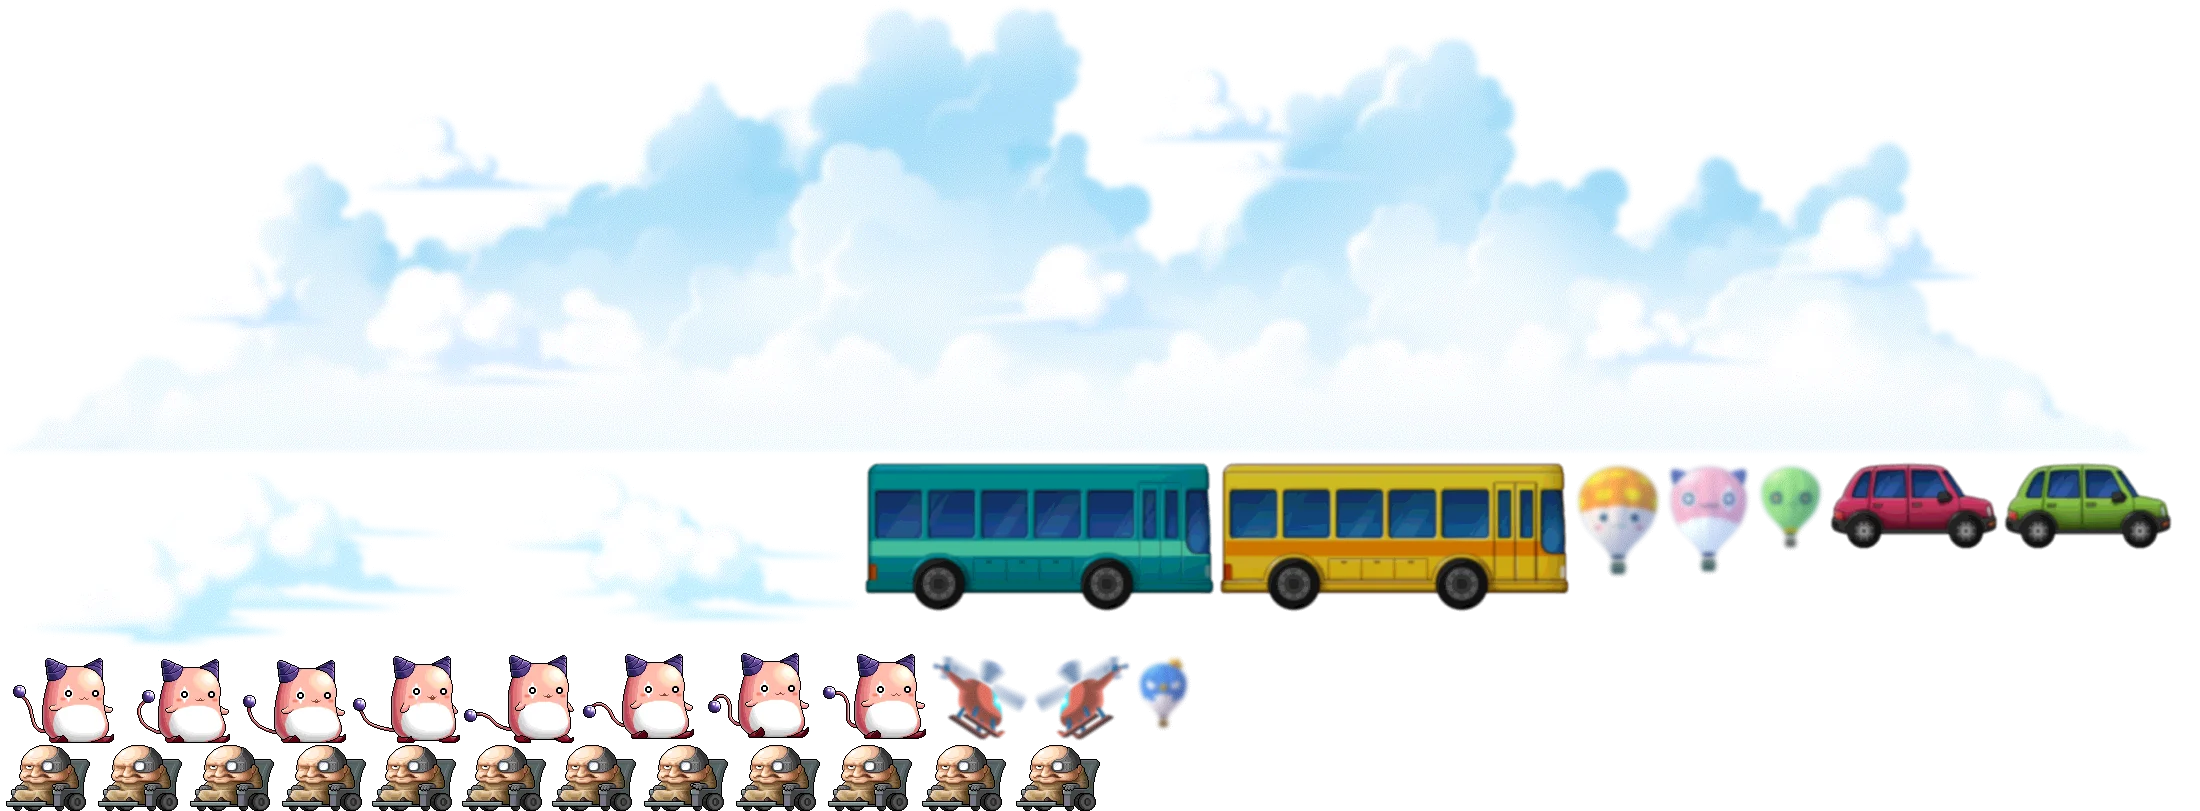
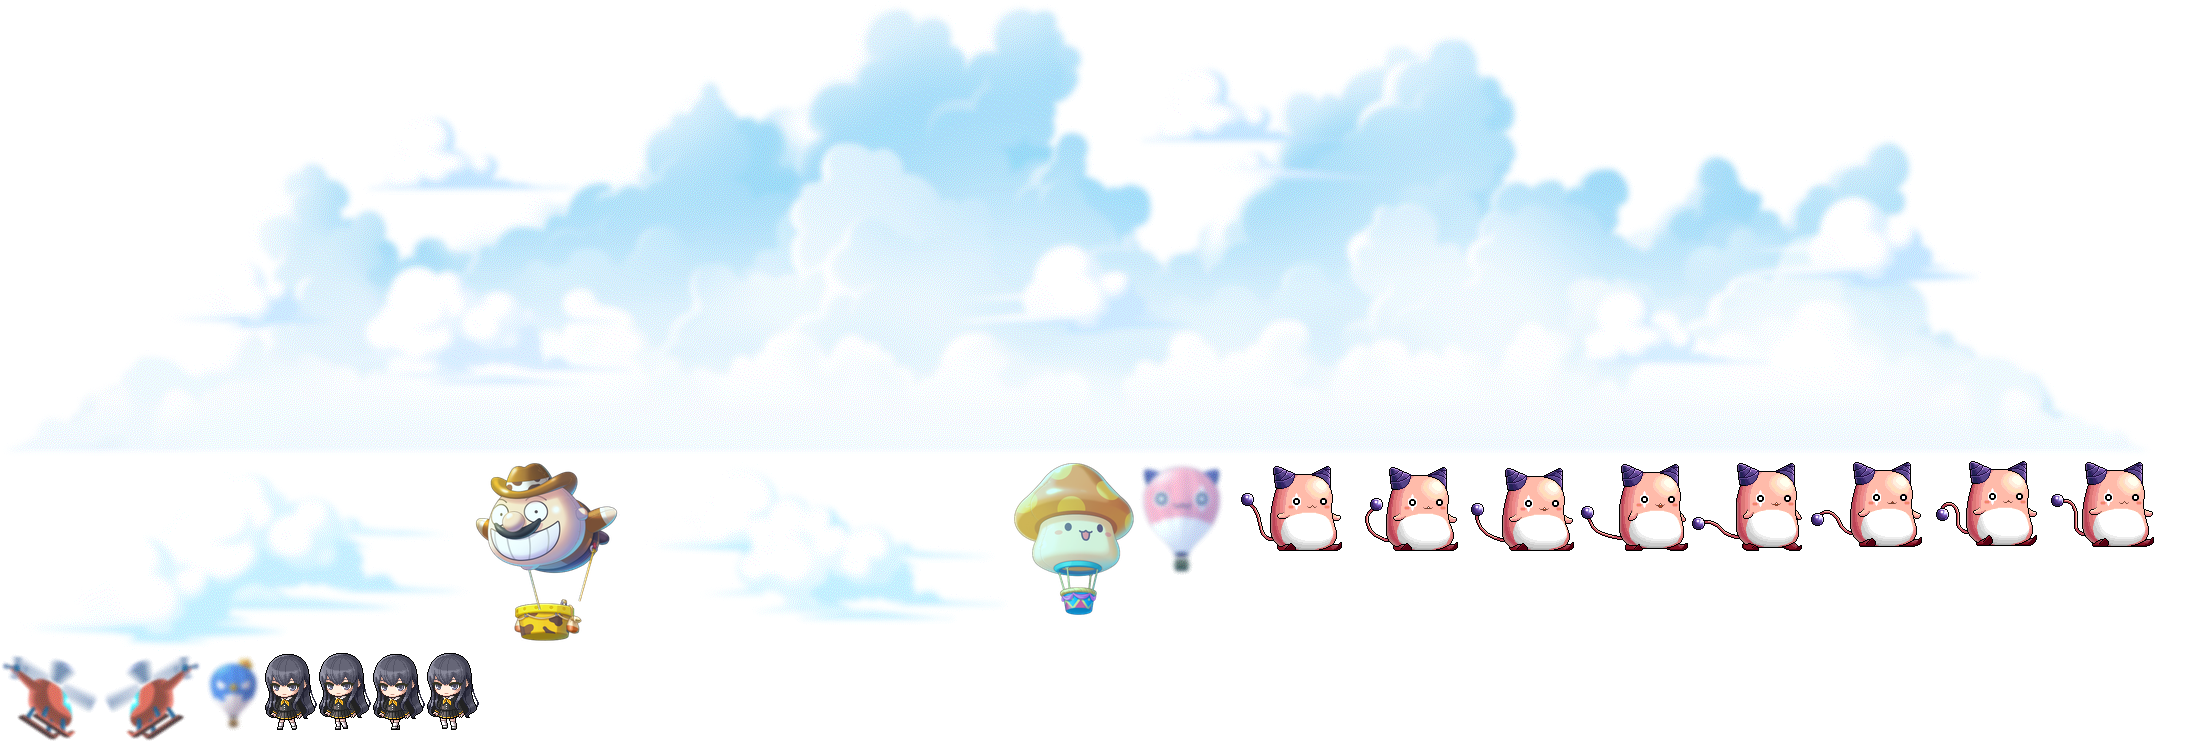
거리: 건물이 빛을 내는 밤, 이벤트 열기구, 걷는 페리 — 버스·차·스쿠터 제거
- 밤: 창을 칠하지 않고 밝기만 올린다. 창 · 간판 · 가로등의 빛무리와 그 빛이 퍼져 거리를 채운다, 하늘의 경계선 제거
- 열기구: 15번가의 주황버섯 · 슬라임 제거, 23주년 배경의 주황버섯(0.75배속) · 슈피겔만(1.25배속, 오른쪽 → 왼쪽) 추가
- 길: 버스 · 차 · 스쿠터 NPC 제거, 커닝 타워의 페리가 오른쪽 → 왼쪽으로 걷는다. 걷는 이들은 가끔 멈춰 선다
- 작은 그림이 뭉개지지 않게: 아틀라스 무손실, 움직임을 화면 픽셀 단위로, 캐릭터 · 열기구는 밤에도 고른 색

diff --git a/src/components/shop/scene/sceneGl.ts b/src/components/shop/scene/sceneGl.ts
@@ -1,14 +1,15 @@
 // 배경 장면을 그리는 WebGL 실행기. 그림은 게임 맵에서 뽑은 것(메이플 15번가)이고, 여기서는 층을 겹쳐 놓고
 // 시각에 따른 색과 작은 움직임만 입힌다. 화면 조작(INP)에 끼어들지 않는 것이 첫째 조건이다.
 //  · 앱 배경(sky) = 15번가 거리: 하늘(셰이더) → 구름 · 열기구 → 먼 빌딩 숲 → 거리의 건물(탑을 끌어안은 예티 풍선 포함) → 밤 불빛의 번짐
-//    → 가게 앞을 지나는 버스와 차 → 길을 걷는 핑크빈(왼쪽 → 오른쪽)과 스쿠터를 탄 NPC(오른쪽 → 왼쪽, 더 빠르게) → 헬리콥터.
+//    → 길을 걷는 핑크빈(왼쪽 → 오른쪽)과 커닝 타워의 페리(오른쪽 → 왼쪽, 가끔 멈춰 선다) → 헬리콥터.
 //    그림 1칸 = 화면 1px 로 놓고(배율을 바꾸지 않는다) 아래 가운데를 화면 아래 가운데에 맞춘다.
+//    움직임은 화면 픽셀 단위로 끊어 옮긴다 — 반 칸씩 걸쳐 그리면 작은 그림(캐릭터 · 열기구)이 뭉개져 보인다.
 //  · 무대(room) = 15번가 패션 매장 안: 창밖 거리 → 매장. 가운데 깔개가 캐릭터 발밑에 오고, 그림 1칸 = 캐릭터 도트 1칸이다 —
 //    미리보기 배율을 올리면 방도 함께 커진다(정수 배율이라 칸을 그대로 키운다).
 //  · 움직임: 구름 · 열기구 · 차가 따로 흘러가고(정점 셰이더에서 계산), 화면 전체가 아주 천천히 좌우로 흔들린다(층마다 폭이 다르다).
 //  · 시각(skyTime): 하늘 · 해 · 달 · 별 · 별똥별 · 핑크빈 별자리, 그림에 곱하는 빛. 밤에는 하늘이 아니라 거리가 밝다 —
-//    창에 노란 불이 켜지고 가로등 둘레와 길바닥이 노랗게 밝아진다(어느 창이 켜지고 어디가 밝은지는 미리 뽑아 둔 지도 street-glow 가 정한다).
-//    네온처럼 밝고 진한 색도 제 빛을 지킨다.
+//    그림을 덧칠하지 않고 밝기만 올린다: 길에서 가게 높이까지 은은하게, 가로등 둘레는 더, 창유리 자리는 조금 더 밝고 따뜻하게
+//    (어디가 밝은지는 미리 뽑아 둔 지도 street-glow 가 정한다). 네온처럼 밝고 진한 색도 제 빛을 지킨다.
 //  · 그림은 화면이 한가할 때 받아 한 프레임에 한 장씩 올린다(디코딩은 createImageBitmap 으로 메인 스레드 밖에서).
 //  · 초당 30번 그린다. '동작 줄이기'면 바뀔 때와 20초마다만 그린다. 탭이 가려지면 rAF 가 멈춘다.
 //  · 캔버스와 컨텍스트는 종류마다 하나를 끝까지 재사용한다. 밝아지며 다가가는 연출은 처음 뜰 때 한 번뿐 —
@@ -32,32 +33,40 @@ const MAX_RATIO = 2      // 앱 배경 캔버스 해상도 상한(화면 배율)
 const SWAY = 12          // 화면이 좌우로 흔들리는 폭(그림 픽셀)
 const MASK = 0.2         // 앱 배경을 화면 내용과 가르는 어두운 막
 
-// 정점: 자리(2) · 텍스처 좌표(2) · [종류, 위상(걷는 이는 그림 한 장의 텍스처 폭), 처음 x, 걷는 그림 장수](4)
-// 종류 0 구름 · 1 열기구 · 2 헬리콥터 · 3 버스와 차 · 4 먼 빌딩 · 5 거리 · 6 무대의 창밖 · 7 무대 · 8 밤 불빛의 번짐 · 9 오른쪽으로 걷는 이 · 10 왼쪽으로 가는 이
+// 정점: 자리(2) · 텍스처 좌표(2) · [종류, 위상(걷는 이는 그림 한 장의 텍스처 폭), 처음 x, 빠르기 배수(걷는 이는 그림 장수)](4)
+// 종류 0 구름 · 1 열기구 · 2 헬리콥터 · 4 먼 빌딩 · 5 거리 · 6 무대의 창밖 · 7 무대 · 8 밤 불빛의 번짐 · 9 오른쪽으로 걷는 이 · 10 왼쪽으로 걷는 이
 const QUAD_VS = `
 attribute vec2 aPos; attribute vec2 aUv; attribute vec4 aAni;
 uniform vec4 uView; uniform vec2 uRes; uniform float uTime; uniform float uSway;
 varying vec2 vUv; varying float vKind; varying vec2 vPos;
 void main(){
   float k = aAni.x, ph = aAni.y;
-  vec2 p = aPos, uv = aUv;
-  if (k < 3.5) {
-    float sp = k < .5 ? 3. + ph * 2. : k < 1.5 ? 1.5 + ph * 2.5 : k < 2.5 ? 7. + ph * 6. : 22. + ph * 16.;
-    float pad = k < .5 ? 2155. : 400., per = k < .5 ? 6465. : k < 2.5 ? ${STREET.w + 500}. : ${(STREET.w + 500) * 2}.;   // 차는 드문드문
-    p.x += mod(aAni.z + sp * uTime + pad, per) - pad - aAni.z;
-    p.y += k < .5 ? 0. : k < 1.5 ? sin(uTime * .55 + ph * 6.283) * 5. : k < 2.5 ? sin(uTime * 1.3 + ph * 6.283) * 2.5 : 0.;
+  vec2 mv = vec2(0.), uv = aUv;     // mv = 제자리에서 옮긴 만큼(그림 픽셀)
+  if (k < 2.5) {
+    // 핑크빈 열기구가 기준(5칸/초). 다른 열기구는 그 배수(aAni.w)로 흘러간다
+    float sp = k < .5 ? 3. + ph * 2. : k < 1.5 ? 5. * aAni.w : 7. + ph * 6.;
+    float pad = k < .5 ? 2155. : 400., per = k < .5 ? 6465. : ${STREET.w + 500}.;
+    mv.x = mod(aAni.z + sp * uTime + pad, per) - pad - aAni.z;
+    mv.y = k < .5 ? 0. : k < 1.5 ? sin(uTime * .55 + ph * 6.283) * 5. : sin(uTime * 1.3 + ph * 6.283) * 2.5;
   } else if (k > 8.5) {
-    // 길을 지나가는 이들: 한쪽 끝에서 나타나 반대쪽 끝으로 사라지고, 한참 뒤에 다시 나타난다(둘의 주기와 처음 자리가 달라 따로 나타난다)
+    // 길을 걷는 이들: 한쪽 끝에서 나타나 반대쪽 끝으로 사라지고, 쉬었다가 다시 나타난다(둘의 빠르기 · 주기 · 처음 자리가 다르다).
+    // 건널 때마다 열에 여섯 번쯤은 도중에 한 번 멈춰 선다(자리와 여부는 건널 때마다 다르다).
     bool right = k < 9.5;
-    float per = right ? ${STREET.w + 700}. : ${Math.round((STREET.w + 700) * 1.35)}.;
-    float m = mod((right ? 24. : 46.) * uTime + (right ? 1250. : per - 700.), per);
-    p.x += (right ? m - 350. : ${STREET.w + 350}. - m) - aAni.z;
-    uv.x += floor(mod(uTime * 8., aAni.w)) * ph;
+    float sp = right ? 24. : 34.;
+    float travel = ${STREET.w + 700}. / sp, per = travel + (right ? 50. : 85.);
+    float tt = uTime + (right ? travel * .28 : 17.);
+    float j = floor(tt / per), tau = tt - j * per;
+    float h1 = fract(sin(j * 12.9898 + k) * 43758.5453), h2 = fract(sin(j * 78.233 + k * 3.7) * 24634.6345);
+    float stop = step(h1, .6) * 4.5, tp = (.3 + .4 * h2) * travel;
+    float walked = tau < tp ? tau : (tau < tp + stop ? tp : tau - stop);
+    bool paused = tau >= tp && tau < tp + stop;
+    mv.x = (right ? walked * sp - 350. : ${STREET.w + 350}. - walked * sp) - aAni.z;
+    uv.x += (paused ? 0. : floor(mod(uTime * (right ? 8.33 : 5.), aAni.w))) * ph;
   }
-  float par = k < .5 ? .15 : k < 1.5 ? .3 : k < 2.5 ? .6 : k < 3.5 ? 1. : k < 4.5 ? .5 : k < 5.5 ? 1. : k < 6.5 ? .25 : k < 7.5 ? 0. : 1.;
-  p.x += uSway * par;
-  vPos = p;
-  vec2 c = p * uView.xy + uView.zw;          // 캔버스 픽셀(왼쪽 위 원점)
+  float par = k < .5 ? .15 : k < 1.5 ? .3 : k < 2.5 ? .6 : k < 4.5 ? .5 : k < 5.5 ? 1. : k < 6.5 ? .25 : k < 7.5 ? 0. : 1.;
+  mv.x += uSway * par;
+  vPos = aPos + mv;
+  vec2 c = aPos * uView.xy + uView.zw + floor(mv * uView.xy + .5);   // 캔버스 픽셀(왼쪽 위 원점). 옮긴 만큼은 픽셀 단위로 끊는다
   gl_Position = vec4(c.x / uRes.x * 2. - 1., 1. - c.y / uRes.y * 2., 0., 1.);
   vUv = uv; vKind = k;
 }`
@@ -69,8 +78,8 @@ varying vec2 vUv; varying float vKind; varying vec2 vPos;
 void main(){
   vec4 t = texture2D(uTex, vUv);
   if (vKind > 7.5 && vKind < 8.5) {
-    // 밤 불빛의 번짐: 가로등과 창 둘레의 공기가 노랗게 밝다(더하기)
-    gl_FragColor = vec4(vec3(1., .72, .34) * t.g * uLamp * .2 * (1. - uMask), 0.);
+    // 밤 불빛의 번짐: 창 · 간판 · 가로등 둘레에 빛무리가 지고(b), 그 빛이 닿는 공기도 조금 밝다(g). 더하기. 위로 갈수록 스러진다(지도에서)
+    gl_FragColor = vec4(vec3(1., .74, .38) * (t.b * .34 + t.g * .07) * uLamp * (1. - uMask), 0.);
     return;
   }
   if (t.a < .004) discard;
@@ -86,16 +95,21 @@ void main(){
     lit *= 1. - .34 * smoothstep(1., .25, length(d));
   } else {
     lit = c * uAmb;
-    // 밤: 밝고 진한 색(네온 · 간판)은 제 빛을 지킨다
-    lit = mix(lit, c * 1.05 + .03, smoothstep(.6, .9, mx) * smoothstep(.2, .5, mx - mn) * uLamp);
-    if (vKind > 4.5 && vKind < 5.5) {
-      // 거리: 가로등과 창의 빛(g)을 받은 면은 제 색이 살아나고 노랗게 물든다. 불 켜진 창(r)은 통째로 노랗다
-      vec2 gw = texture2D(uGlow, vUv).rg * uLamp;
-      lit *= 1. + gw.y * 1.3;
-      lit += vec3(1., .72, .34) * gw.y * .16;
-      lit = mix(lit, vec3(1., .88, .56) * (.6 + .5 * lum), gw.x);
-    } else if (vKind > 3.5 && vKind < 4.5) lit = mix(lit, uHaze, .3);
-    else if ((vKind > 2.5 && vKind < 3.5) || vKind > 8.5) lit *= 1. + .75 * uLamp;   // 차와 행인은 가로등 아래에 있다
+    if (vKind > 3.5 && vKind < 5.5) {
+      // 건물 — 밤: 밝고 진한 색(네온 · 간판)은 제 빛을 지킨다
+      lit = mix(lit, c * 1.05 + .03, smoothstep(.6, .9, mx) * smoothstep(.2, .5, mx - mn) * uLamp);
+      if (vKind > 4.5) {
+        // 거리: 건물의 창 · 간판 · 가로등에서 나온 빛(g)을 받은 면은 제 색이 살아나고 살짝 노랗게 물든다.
+        // 창유리 자리(r)는 스스로 빛난다 — 안이 보이는 채로 더 밝고 따뜻하다
+        vec2 gw = texture2D(uGlow, vUv).rg * uLamp;
+        lit *= 1. + gw.y * 1.45;
+        lit += vec3(1., .72, .34) * gw.y * .1;
+        lit = mix(lit, mix(c, vec3(1., .9, .62) * (lum * 1.2 + .1), .45) * 1.12, gw.x * .9);
+      } else lit = mix(lit, uHaze, .3);
+    }
+    // 캐릭터와 열기구는 색을 고르게 다룬다(부분만 밝히면 얼룩져 보인다). 걷는 이들은 가로등 아래라 밤에도 거의 제 색이다
+    else if (vKind > 8.5) lit = c * mix(uAmb, vec3(1., .96, .9), .88 * uLamp);
+    else if (vKind < 1.5) lit = c * mix(uAmb, vec3(1.), .5 * uLamp);
   }
   gl_FragColor = vec4(mix(lit, vec3(.09, .07, .16), uMask) * t.a, t.a);
 }`
@@ -203,14 +217,15 @@ function program(gl: WebGLRenderingContext, vs: string, fs: string, names: strin
 const STRIDE = 8
 function mesh(kind: SceneKind) {
   const out: number[] = [], ranges: number[][] = []
-  const quad = (k: number, ph: number, x: number, y: number, w: number, h: number, u0: number, v0: number, u1: number, v1: number, frames = 0) => {
+  const quad = (k: number, ph: number, x: number, y: number, w: number, h: number, u0: number, v0: number, u1: number, v1: number, extra = 0) => {
     const r = (ranges[k] ??= [out.length / STRIDE, 0])
     r[1] += 6
-    for (const [cx, cy] of [[0, 0], [1, 0], [0, 1], [1, 0], [1, 1], [0, 1]]) out.push(x + cx * w, y + cy * h, cx ? u1 : u0, cy ? v1 : v0, k, ph, x, frames)
+    for (const [cx, cy] of [[0, 0], [1, 0], [0, 1], [1, 0], [1, 1], [0, 1]]) out.push(x + cx * w, y + cy * h, cx ? u1 : u0, cy ? v1 : v0, k, ph, x, extra)
   }
   if (kind === 'sky') {
     const [aw, ah] = STREET.atlas
-    STREET.sprites.forEach(([k, ax, ay, w, h, x, y, frames, pitch], i) => quad(k, frames ? pitch / aw : (i * 0.618034) % 1, x, y, w, h, ax / aw, ay / ah, (ax + w) / aw, (ay + h) / ah, frames))
+    // extra = 빠르기 배수(열기구) 또는 걷는 그림 장수. 걷는 이는 위상 자리에 그림 한 장의 텍스처 폭을 싣는다
+    STREET.sprites.forEach(([k, ax, ay, w, h, x, y, extra, pitch], i) => quad(k, pitch ? pitch / aw : (i * 0.618034) % 1, x, y, w, h, ax / aw, ay / ah, (ax + w) / aw, (ay + h) / ah, extra))
     quad(4, 0, 0, STREET.far.y, STREET.w, STREET.far.h, 0, 0, 1, 1)
     quad(5, 0, 0, STREET.main.y, STREET.w, STREET.main.h, 0, 0, 1, 1)
     quad(8, 0, 0, STREET.main.y, STREET.w, STREET.main.h, 0, 0, 1, 1)
@@ -355,6 +370,7 @@ function draw(sc: Scene, now: number, st: SkyState, still: boolean) {
   let k: number, ox: number, oy: number
   if (room) { k = sc.px * zoom; ox = sc.foot[0] - ROOM.foot[0] * k; oy = sc.foot[1] - ROOM.foot[1] * k }
   else { k = sc.ratio * Math.max(1, W / sc.ratio / (STREET.w - 4 * SWAY)) * zoom; ox = W / 2 - (STREET.w / 2) * k; oy = H - STREET.h * k }
+  if (zoom === 1) { ox = Math.round(ox); oy = Math.round(oy) } // 칸이 화면 픽셀에 딱 맞게
   gl.uniform4f(q.u.uView, k, k, ox, oy); gl.uniform2f(q.u.uRes, W, H); gl.uniform1f(q.u.uTime, s); gl.uniform1f(q.u.uTw, s % 600)
   gl.uniform1f(q.u.uSway, still ? 0 : Math.sin(s * 0.09) * SWAY)
   // 불빛 지도는 1번 자리에(거리만 읽는다. 무대는 아무 그림이나 물려 둔다)
@@ -372,7 +388,7 @@ function draw(sc: Scene, now: number, st: SkyState, still: boolean) {
     for (const kd of kinds) { const r = sc.ranges[kd]; if (r) gl.drawArrays(gl.TRIANGLES, r[0], r[1]) }
   }
   if (room) { part(0, [6]); part(1, [7]) }
-  else { part(0, [0, 1]); part(1, [4]); part(2, [5]); part(3, [8]); part(0, [3, 9, 10, 2]) }
+  else { part(0, [0, 1]); part(1, [4]); part(2, [5]); part(3, [8]); part(0, [9, 10, 2]) }
   sc.dirty = false
   sc.at = now
   if (!sc.shown) { sc.shown = true; c.style.transition = 'opacity .45s ease'; c.style.opacity = '1' }

diff --git a/src/components/shop/scene/sceneData.ts b/src/components/shop/scene/sceneData.ts
@@ -1,5 +1,5 @@
 // parser/scripts/scene-build.cjs 가 만든다. 손으로 고치지 않는다.
-// 좌표는 그림 픽셀(왼쪽 위 원점). sprites: [종류, 아틀라스 x, y, w, h, 장면 x, y(, 걷는 그림 장수, 장 사이 간격)]
-// 종류 0 구름 · 1 열기구 · 2 헬리콥터 · 3 버스와 차 · 9 오른쪽으로 걷는 이 · 10 왼쪽으로 가는 이
-export const STREET: { w: number; h: number; far: { y: number; h: number }; main: { y: number; h: number }; atlas: number[]; sprites: number[][] } = {"w":4096,"h":1000,"far":{"y":118,"h":722},"main":{"y":98,"h":902},"atlas":[2200,811],"sprites":[[0,0,0,2155,459,-431,154],[0,0,0,2155,459,1724,154],[0,0,0,2155,459,3879,154],[0,474,461,387,166,1119,86],[0,474,461,387,166,2919,86],[0,0,461,472,190,169,11],[0,0,461,472,190,1669,11],[0,0,461,472,190,3169,11],[1,1755,461,71,92,1493,232],[1,1755,461,71,92,3922,91],[1,1134,653,59,80,3033,158],[1,1134,653,59,80,2555,254],[1,1134,653,59,80,810,206],[1,1665,461,88,116,2452,156],[1,1665,461,88,116,240,122],[1,1665,461,88,116,4022,134],[1,1573,461,90,119,3100,189],[1,1573,461,90,119,1725,174],[1,1573,461,90,119,865,127],[2,930,653,100,89,1864,335],[2,1032,653,100,89,2285,286],[3,863,461,353,152,746,688],[3,1218,461,353,152,2961,688],[3,1828,461,172,90,836,750],[3,2002,461,172,90,1997,750],[3,2002,461,172,90,54,750],[9,0,653,114,90,0,748,8,116],[10,0,745,90,66,0,772,12,92]]}
+// 좌표는 그림 픽셀(왼쪽 위 원점). sprites: [종류, 아틀라스 x, y, w, h, 장면 x, y, 빠르기 배수 | 걷는 그림 장수(, 장 사이 간격)]
+// 종류 0 구름 · 1 열기구 · 2 헬리콥터 · 9 오른쪽으로 걷는 이 · 10 왼쪽으로 걷는 이
+export const STREET: { w: number; h: number; far: { y: number; h: number }; main: { y: number; h: number }; atlas: number[]; sprites: number[][] } = {"w":4096,"h":1000,"far":{"y":118,"h":722},"main":{"y":98,"h":902},"atlas":[2200,742],"sprites":[[0,0,0,2155,459,-431,154,1],[0,0,0,2155,459,1724,154,1],[0,0,0,2155,459,3879,154,1],[0,623,461,387,166,1119,86,1],[0,623,461,387,166,2919,86,1],[0,0,461,472,190,169,11,1],[0,0,461,472,190,1669,11,1],[0,0,461,472,190,3169,11,1],[1,204,653,59,80,3033,158,1],[1,204,653,59,80,2555,254,1],[1,204,653,59,80,810,206,1],[1,1138,461,88,116,2452,156,1],[1,1138,461,88,116,240,122,1],[1,1138,461,88,116,4022,134,1],[1,1012,461,124,156,1100,92,0.75],[1,474,461,147,182,2560,84,-1.25],[2,0,653,100,89,1864,335,1],[2,102,653,100,89,2285,286,1],[9,1228,461,114,90,0,748,8,116],[10,265,653,52,77,0,762,4,54]]}
 export const ROOM = {"w":956,"h":538,"foot":[478,414]}
